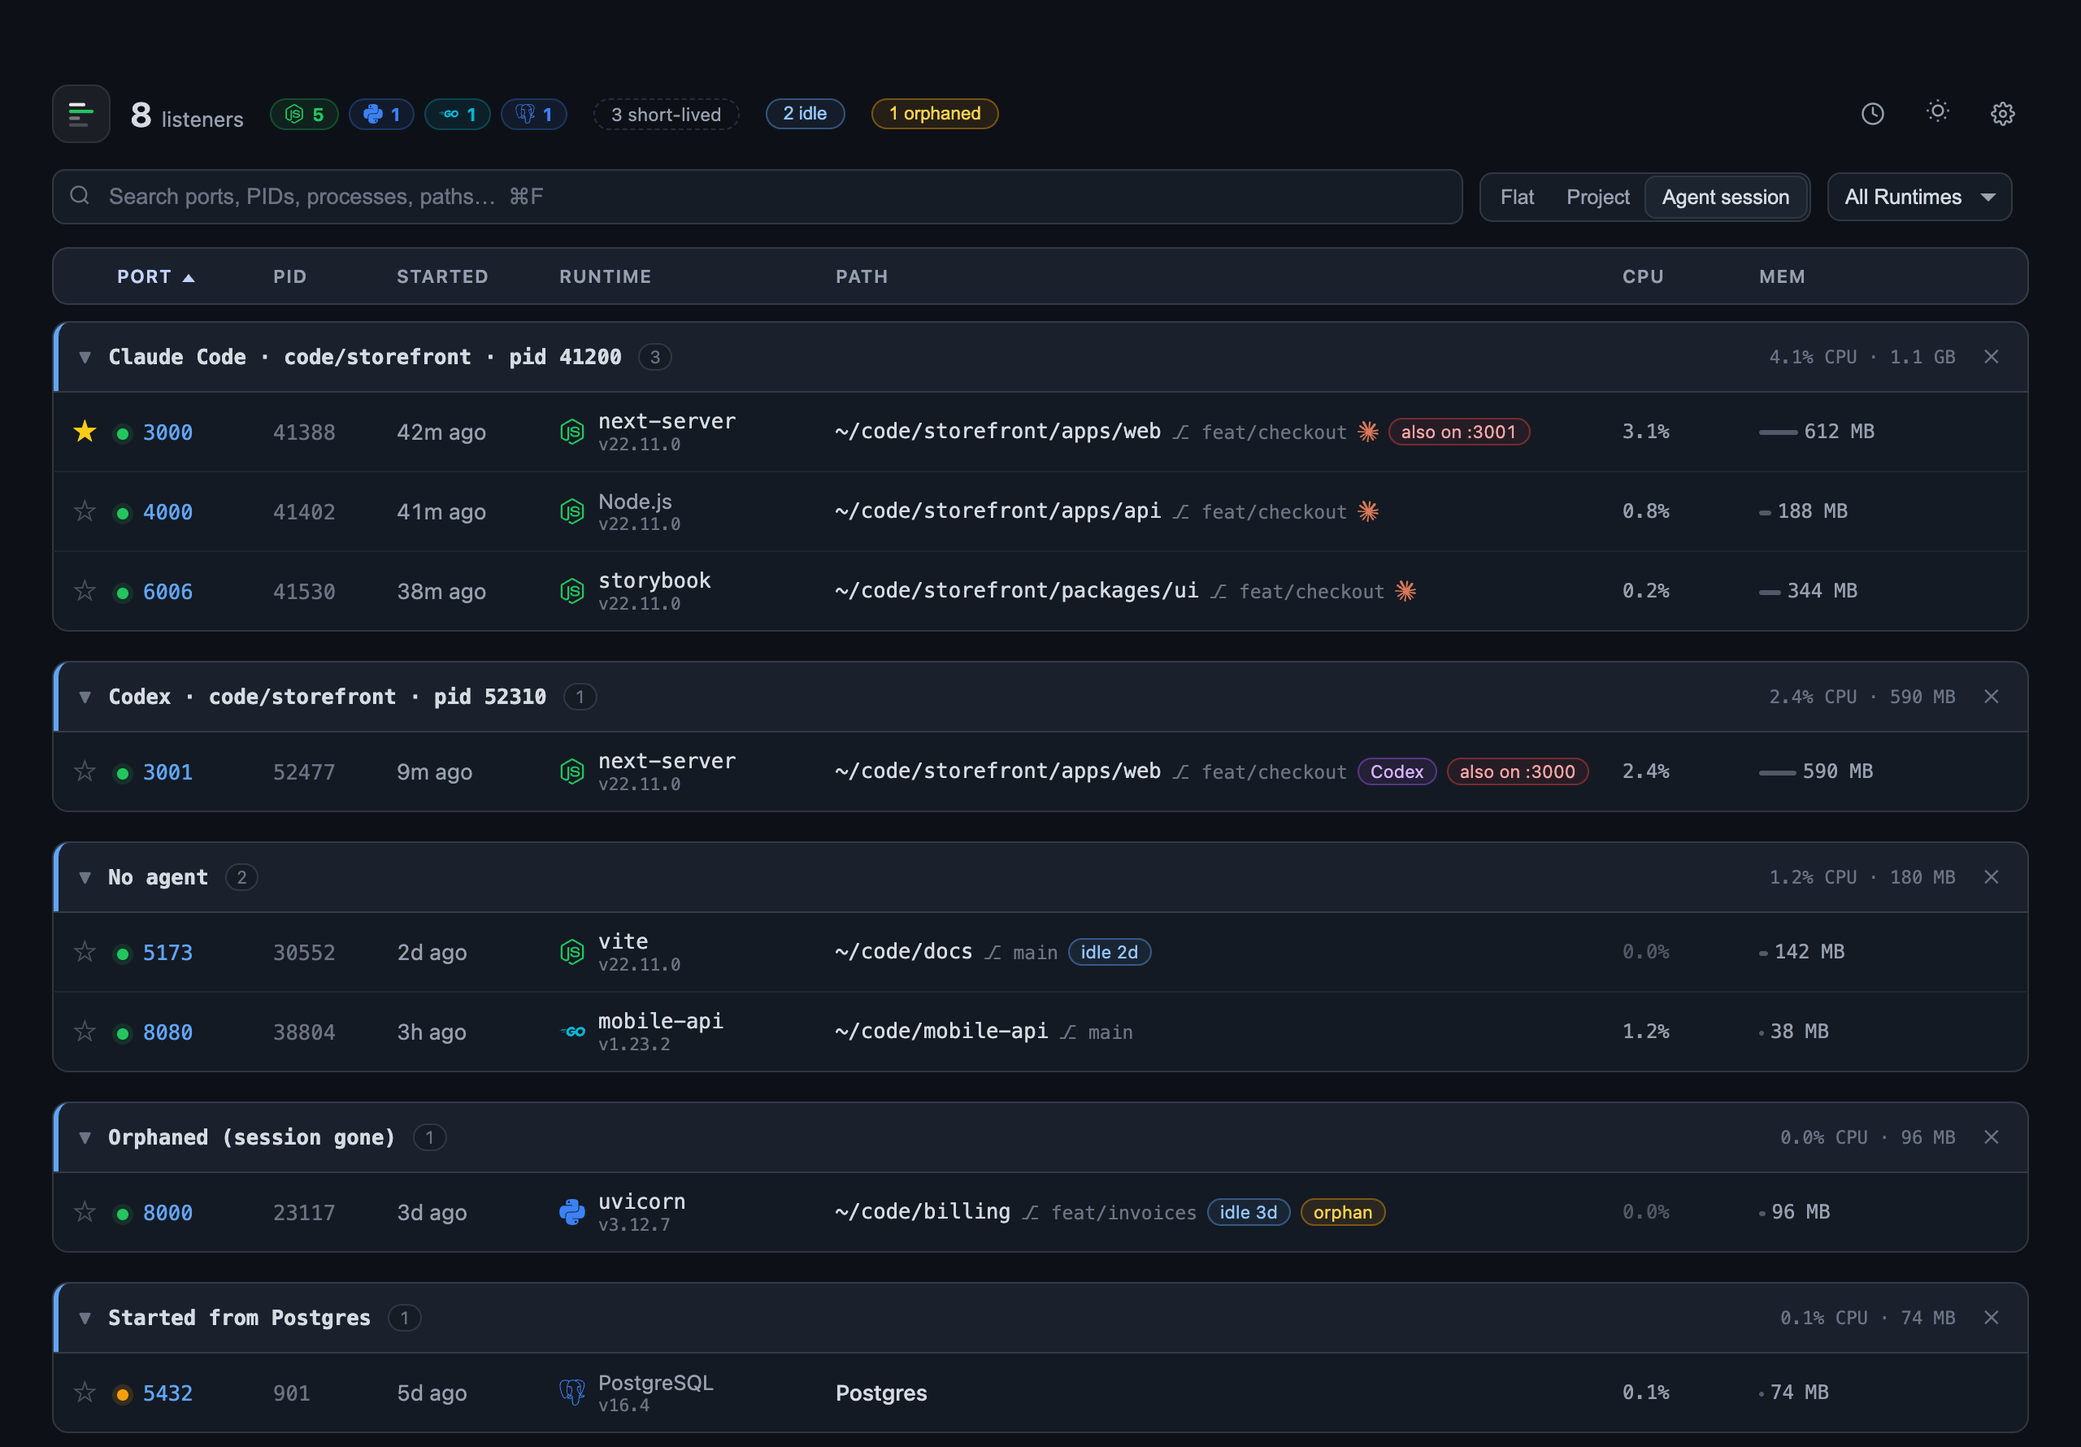
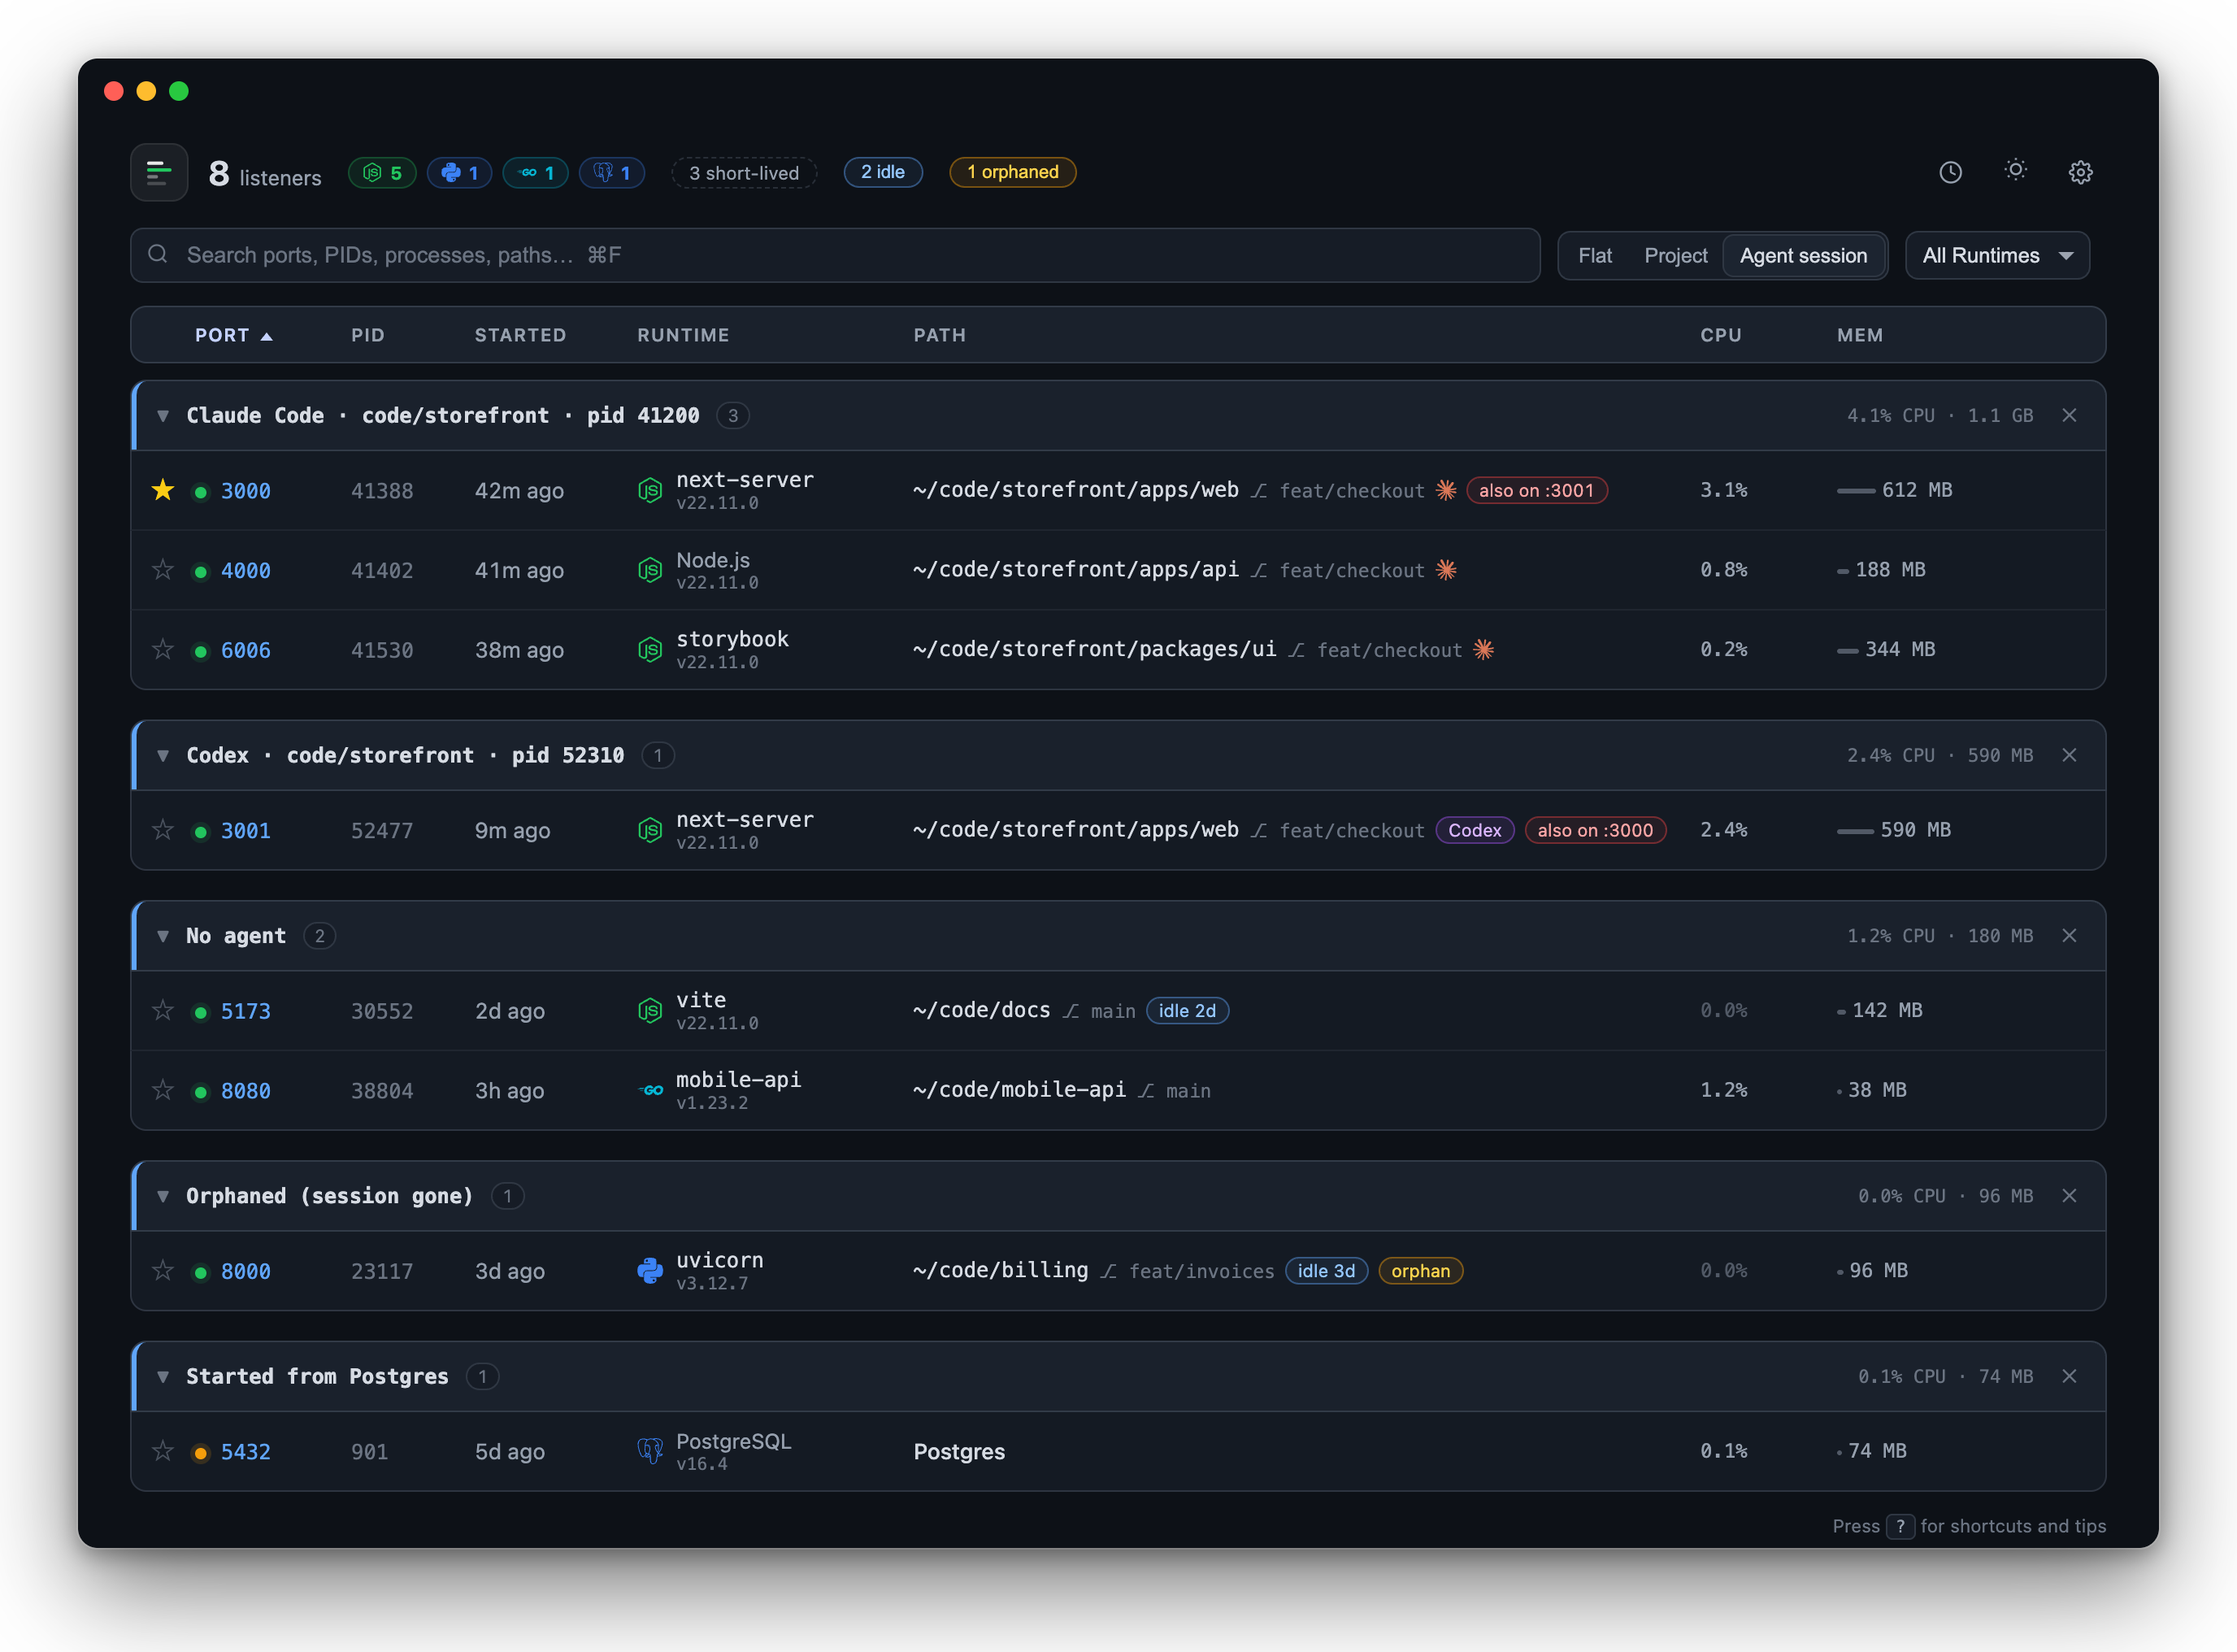
docs: framed screenshots, before/after scenarios

diff --git a/README.md b/README.md
@@ -10,23 +10,9 @@
   <a href="https://github.com/Osama-Yusuf/devdock/releases/latest"><b>Download for macOS</b></a>
 </p>
 
----
-
-Forgotten servers pile up: an old branch still on :3000, a database from last week, something holding the port you need. DevDock lists every listening port with the project and branch behind it, so you can tell what is safe to kill.
-
-Built lean: no frontend framework, under 1% CPU at idle, and the dashboard updates within a second of a port going up or down.
-
-## Why
-
 <p align="center"><img src="docs/dashboard.png" alt="DevDock dashboard" /></p>
 
-**"Port 3000 is already in use."** Instead of `lsof -i :3000` and a `ps` hunt, find the port and see the project, branch and how long it's been up. Kill it from the same row.
-
-**The server you forgot.** A terminal closed days ago and `uvicorn` is still holding :8000. DevDock tags it `orphan` and `idle 3d`, and can stop idle servers for you.
-
-**Two of the same app.** When a coding agent can't tell your dev server is already up, it starts another one on the next free port. DevDock marks both copies `also on :3001` and shows which session started each, so you can stop a whole session's servers in one click.
-
-<p align="center"><img src="docs/sessions.png" alt="Servers grouped by the session that started them" /></p>
+Built lean: no frontend framework, under 1% CPU at idle, and changes show up within a second.
 
 ## Features
 
@@ -51,6 +37,22 @@ Built lean: no frontend framework, under 1% CPU at idle, and the dashboard updat
    Or open it, then allow it under System Settings → Privacy & Security → Open Anyway.
 
 Requires macOS on Apple Silicon.
+
+## Why
+
+1. **"Port 3000 is already in use."**
+   - **Before:** `lsof -i :3000`, then `ps` to work out which project that PID belongs to, then `kill`.
+   - **With DevDock:** search `3000`, see the project, branch and uptime, kill it from the row.
+
+2. **The server you forgot.** A terminal closed days ago, and `uvicorn` is still holding :8000.
+   - **Before:** you find out when something else can't start, or from the fan.
+   - **With DevDock:** it's tagged `orphan` and `idle 3d`. Stop it, or let DevDock stop idle servers for you.
+
+3. **Two copies of the same app.** A coding agent doesn't see your dev server is up and starts another one on the next free port.
+   - **Before:** two servers on the same code, and you're testing the stale one.
+   - **With DevDock:** both are marked `also on :3001`, grouped by the session that started them. Stop a whole session in one click.
+
+<p align="center"><img src="docs/sessions.png" alt="Servers grouped by the session that started them" /></p>
 
 ## Development
 
